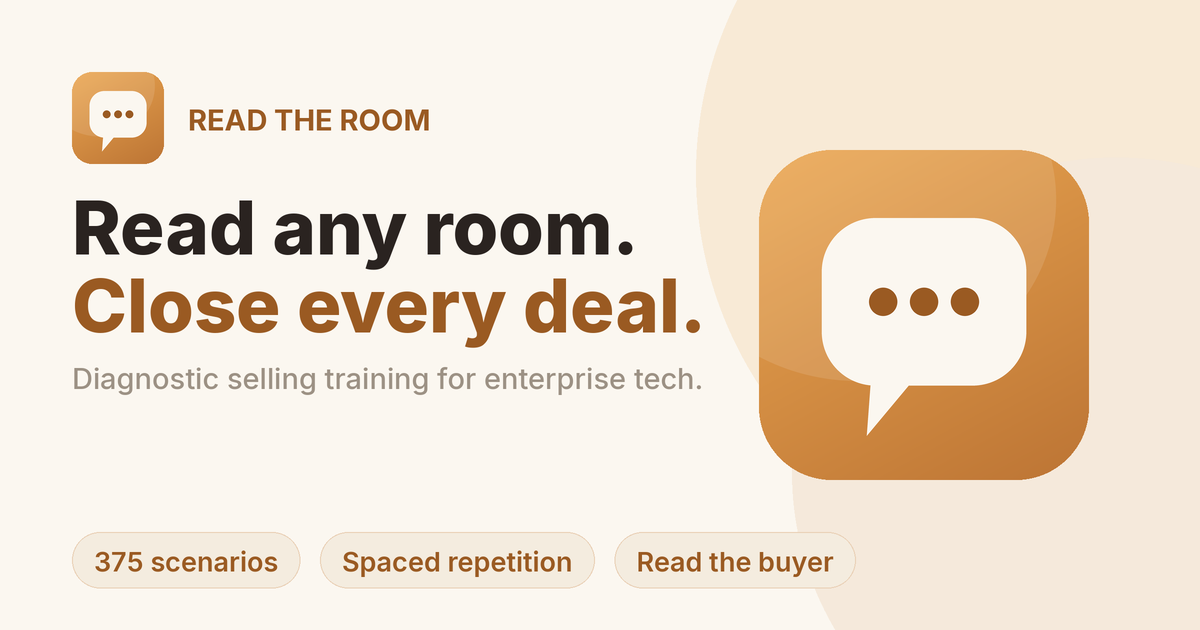
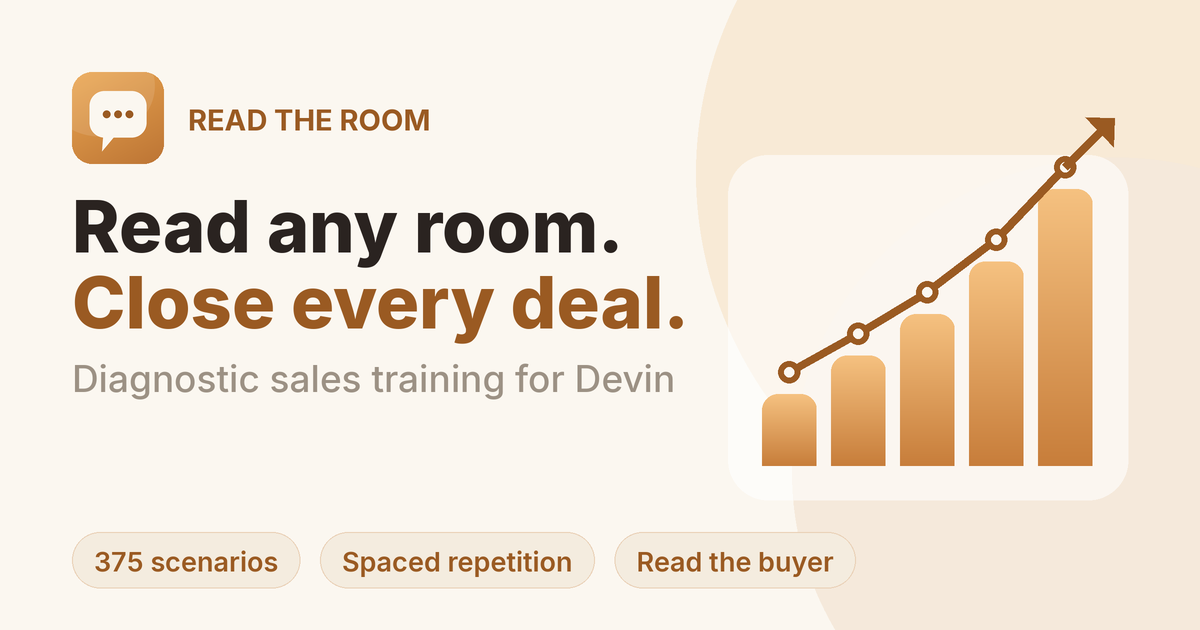
feat(brand): commercial growth-chart share card + 'for Devin' copy

Changed region(s): [[0.6167, 0.181, 0.9558, 0.7841], [0.0617, 0.3016, 0.5858, 0.6333]]

diff --git a/scripts/gen-brand-assets.py b/scripts/gen-brand-assets.py
@@ -106,6 +106,65 @@ def make_icon(px, maskable=False):
     return img.convert("RGBA")
 
 
+def draw_growth_chart(img, box, ss):
+    """A premium ascending bar chart with a rising trend line + arrow,
+    evoking sales growth. `box` = (x0, y0, x1, y1) in supersampled coords."""
+    x0, y0, x1, y1 = box
+    d = ImageDraw.Draw(img)
+
+    # soft rounded panel behind the chart
+    panel = Image.new("RGBA", img.size, (0, 0, 0, 0))
+    pd = ImageDraw.Draw(panel)
+    pad = 34 * ss
+    pd.rounded_rectangle([x0 - pad, y0 - pad, x1 + pad, y1 + pad],
+                         radius=40 * ss, fill=(255, 255, 255, 150))
+    img.alpha_composite(panel)
+    d = ImageDraw.Draw(img)
+
+    baseline = y1
+    chart_h = y1 - y0
+    n = 5
+    heights = [0.26, 0.40, 0.55, 0.74, 1.0]
+    gap = int((x1 - x0) * 0.045)
+    bw = int(((x1 - x0) - gap * (n - 1)) / n)
+
+    tops = []
+    for i, hf in enumerate(heights):
+        bx0 = x0 + i * (bw + gap)
+        bx1 = bx0 + bw
+        bh = int(chart_h * hf)
+        bt = baseline - bh
+        tops.append((bx0 + bw // 2, bt))
+        # vertical amber gradient per bar
+        bar = Image.new("RGBA", (bw, max(1, bh)), (0, 0, 0, 0))
+        bd = ImageDraw.Draw(bar)
+        for yy in range(bh):
+            t = yy / max(1, bh)
+            c = lerp((245, 193, 128), TERRA, t)
+            bd.line([(0, yy), (bw, yy)], fill=c + (255,))
+        # rounded-top mask
+        m = Image.new("L", (bw, max(1, bh)), 0)
+        md = ImageDraw.Draw(m)
+        md.rounded_rectangle([0, 0, bw, bh + 20 * ss], radius=min(bw // 2, 16 * ss), fill=255)
+        img.paste(bar, (bx0, bt), m)
+
+    d = ImageDraw.Draw(img)
+    # rising trend line just above the bar tops
+    pts = [(cx, ty - 22 * ss) for (cx, ty) in tops]
+    d.line(pts, fill=DEEP, width=8 * ss, joint="curve")
+    for (px, py) in pts:
+        r = 11 * ss
+        d.ellipse([px - r, py - r, px + r, py + r], fill=PAGE, outline=DEEP, width=6 * ss)
+    # arrowhead extending up-right past the last node
+    lx, ly = pts[-1]
+    ax, ay = lx + 46 * ss, ly - 46 * ss
+    d.line([(lx, ly), (ax, ay)], fill=DEEP, width=8 * ss)
+    ah = 26 * ss
+    d.polygon([(ax + ah * 0.15, ay - ah * 0.1),
+               (ax - ah, ay - ah * 0.15),
+               (ax + ah * 0.1, ay + ah)], fill=DEEP)
+
+
 def make_og():
     """1200x630 social share card."""
     ss = 2
@@ -120,18 +179,16 @@ def make_og():
                fill=(232, 162, 74, 40))
     gd.ellipse([W * 0.66, H * 0.25, W * 1.2, H * 1.25],
                fill=(199, 125, 58, 30))
-    img = Image.alpha_composite(img.convert("RGBA"), glow).convert("RGB")
+    img = Image.alpha_composite(img.convert("RGBA"), glow)
     d = ImageDraw.Draw(img)
 
     pad = int(72 * ss)
-    left_max = int(W * 0.60)          # text column right edge
+    left_max = int(W * 0.585)         # text column right edge
     col_w = left_max - pad            # available text width
 
-    # large brand badge on the right, vertically centered
-    bs = 330 * ss
-    right_cx = (left_max + (W - pad)) // 2
-    badge = make_icon(bs).convert("RGBA")
-    img.paste(badge, (right_cx - bs // 2, H // 2 - bs // 2), badge)
+    # commercial growth chart on the right
+    cx0 = int(W * 0.635)
+    draw_growth_chart(img, (cx0, int(H * 0.30), W - pad - 34 * ss, int(H * 0.74)), ss)
 
     # brand row: mini icon + wordmark
     icon = make_icon(92 * ss).convert("RGBA")
@@ -160,7 +217,7 @@ def make_og():
     d.text((pad, y0 + line_gap), l2, font=f1, fill=DEEP)
 
     # subhead — fit within the text column so it clears the badge
-    sub = "Diagnostic selling training for enterprise tech."
+    sub = "Diagnostic sales training for Devin"
     ssz = 37 * ss
     while ssz > 22 * ss:
         fsub = font("Inter-Medium.ttf", ssz)
@@ -186,7 +243,7 @@ def make_og():
         d.text((x + 22 * ss, y + 13 * ss), c, font=fchip, fill=DEEP)
         x += cw + 20 * ss
 
-    return img.resize((1200, 630), Image.LANCZOS)
+    return img.convert("RGB").resize((1200, 630), Image.LANCZOS)
 
 
 def main():